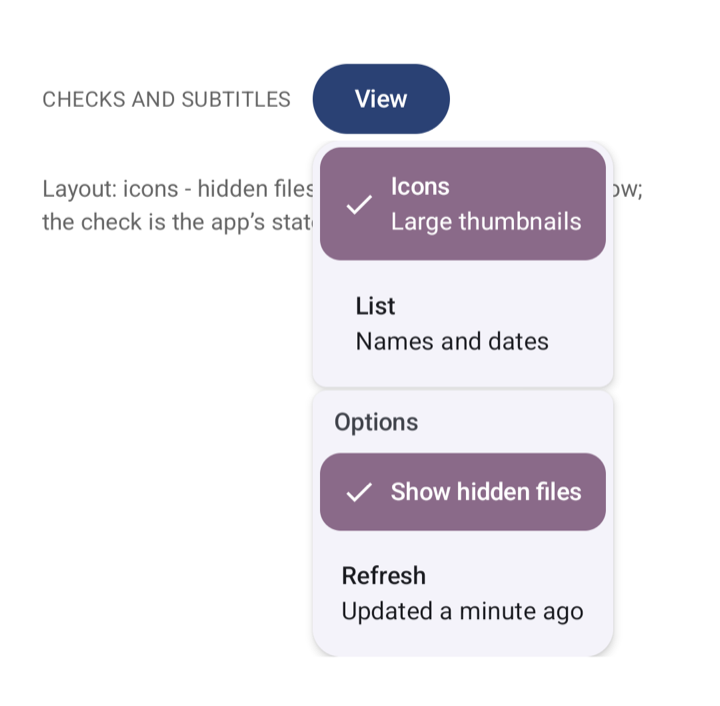
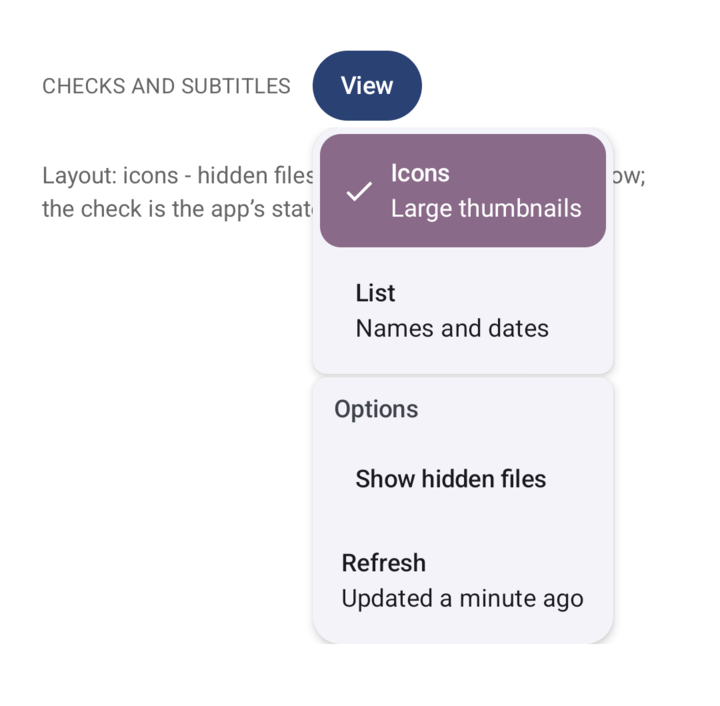
fix(menu): re-measure the trigger against E1's size ladder
The Menu trigger is the shared `NitroUiM3Button`, so E1's Expressive pass moved
its box on Android and the numbers recorded with G7a/E2 stopped describing the
control. Measured on the merged tree (API 35 at 420 dpi, `Menu.harness.tsx` with
a poisoned size cache): a `filled`/`tonal`/`outlined`/`elevated` `Variant` is
76.57 x 48.00 dp where it measured 92.57, `small` is 58.67 x 48.00, `large` is
88.76 x 56.00, and `text` stays 68.95 x 48.00 because that rung's padding was
already Material's.

The declared fallback moves with it: 118 x 52 was no longer even the right order
of guess for a 76.57 dp trigger, so it takes Button's own medium width, 75.1, and
keeps the 52 height so it never equals a measured box. Mirrored into
`DECLARED_FALLBACKS`, the generated shared table and the harness's copy, and
`menu-android.png` retaken at 720 px against the narrower trigger.

ContextMenu and Picker are unaffected: only the Menu trigger composes
`NitroUiM3Button`, and the iOS trigger is SwiftUI's own `.buttonStyle`, which E1
never reached.

diff --git a/android/src/main/java/com/margelo/nitro/nitroui/HybridNitroUiMenu.kt b/android/src/main/java/com/margelo/nitro/nitroui/HybridNitroUiMenu.kt
@@ -615,16 +615,20 @@ class HybridNitroUiMenu(
      * The size to lay a Menu out with before anything has been measured, in dp.
      *
      * One pair for the component, which is all the engine can hold, and the trigger
-     * is a Button's box - so the same shape of guess applies: this is a medium
-     * filled trigger with a five-letter title. `docs/components/menu.md` has the
-     * measured table.
+     * is [NitroUiM3Button]'s box - so the guess is Button's own, and this is literally
+     * it: the width [HybridNitroUiButton] declares for a medium button with a
+     * six-letter title. E1's size ladder is why it moved: that ladder cut 16 dp off a
+     * medium trigger, so a measured `filled` `Variant` is 76.57 dp wide here where it
+     * measured 92.57 before, and the old 118 was no longer even the right order of
+     * guess. `docs/components/menu.md` has the measured table.
      *
-     * Deliberately *not* the fixture's measured size: a fallback that equals the
-     * answer makes a failed correction invisible (AGENTS.md, quality bar). The
-     * harness's sizing test measures a `Short` trigger and asserts the box is not
-     * these numbers as well as that it is the measured ones.
+     * The height stays 52 rather than taking Button's 48, and that gap is the point:
+     * a fallback that equals a measured answer makes a failed correction invisible
+     * (AGENTS.md, quality bar), and every box this control measures is 48 or 56 tall.
+     * `Menu.harness.tsx`'s sizing test poisons all seven configurations and asserts
+     * each box is neither the planted size nor these numbers.
      */
-    private const val FALLBACK_WIDTH_DP = 118.0
+    private const val FALLBACK_WIDTH_DP = 75.1
     private const val FALLBACK_HEIGHT_DP = 52.0
 
     private val fallbackDeclared = AtomicBoolean(false)

diff --git a/example/__tests__/Conformance.harness.tsx b/example/__tests__/Conformance.harness.tsx
@@ -144,7 +144,7 @@ const SHARED = {
     },
     "NitroUiMenu": {
       "android": {
-        "width": 118,
+        "width": 75.1,
         "height": 52
       },
       "ios": {
@@ -1495,7 +1495,7 @@ const MENU_GROUP: MenuGroup = {
  *
  * Deliberately long and deliberately not the fixture's `accessibilityLabel`: the fallback
  * rule's `boxRule: 'none'` branch goes red if a content-sized control measures *exactly* its
- * declared number, and Menu declares a Button-sized 74×38 pt / 118×52 dp, so a two-syllable
+ * declared number, and Menu declares a Button-sized 74×38 pt / 75.1×52 dp, so a two-syllable
  * title would be a coin flip on whether that guard had anything to say. A distinct label is
  * for the same reason one way and one name in two places is how round 1's Picker stutter got
  * missed.

diff --git a/example/__tests__/Menu.harness.tsx b/example/__tests__/Menu.harness.tsx
@@ -565,7 +565,7 @@ function poisonConfigurations(
 const DECLARED_FALLBACK =
   Platform.OS === 'ios'
     ? { width: 74, height: 38 }
-    : { width: 118, height: 52 };
+    : { width: 75.1, height: 52 };
 
 // MARK: - Menu content fixtures
 

diff --git a/docs/components/menu.md b/docs/components/menu.md
@@ -214,21 +214,33 @@ for the sizes. iPhone 17 / iOS 27 in pt, an API 35 emulator at 420 dpi in dp:
 
 | Configuration |           iOS |     Android |
 | ------------- | --------------- | --------------- |
-| `filled`      | 77.33 × 34.33 | 92.57 × 48.00 |
-| `tonal`       | 77.33 × 34.33 | 92.57 × 48.00 |
-| `outlined`    | 77.33 × 34.33 | 92.57 × 48.00 |
-| `elevated`    | 77.33 × 34.33 | 92.57 × 48.00 |
+| `filled`      | 77.33 × 34.33 | 76.57 × 48.00 |
+| `tonal`       | 77.33 × 34.33 | 76.57 × 48.00 |
+| `outlined`    | 77.33 × 34.33 | 76.57 × 48.00 |
+| `elevated`    | 77.33 × 34.33 | 76.57 × 48.00 |
 | `text`        | 53.33 × 20.33 | 68.95 × 48.00 |
-| `small`       | 58.00 × 28.00 | 57.90 × 48.00 |
-| `large`       | 82.00 × 50.33 | 108.57 × 50.29 |
+| `small`       | 58.00 × 28.00 | 58.67 × 48.00 |
+| `large`       | 82.00 × 50.33 | 88.76 × 56.00 |
 
 The heights are Button's three heights — iOS 28.0 / 34.3 / 50.3 and Android 48.0 / 48.0 /
-50.3 (`docs/components/button.md`) — which is the claim being checked: the trigger is
+56.0 (`docs/components/button.md`) — which is the claim being checked: the trigger is
 Button's label with Button's chrome, and the widths differ only because these fixtures
 carry other titles. Android's `text` is narrower than the other four because Material's
 text button carries less horizontal padding, which is what Button does there too. On iOS
 the four boxed variants collapse to one pair because SwiftUI's `.bordered` and
 `.borderedProminent` give the same box; `text` is `.borderless`, so it is a text box.
+
+Only the Android column moved since this table was first taken, and it moved with
+`docs/components/button.md`: the trigger *is* the shared `NitroUiM3Button`, so E1's size
+ladder — Material's own `contentPaddingFor`/`textStyleFor`/`shapesFor` per rung instead
+of hand-rolled padding — took 16 dp off the four boxed variants (92.57 → 76.57), took
+19.8 off `large` and gave it the M token's 56 dp instead of 50.29, and left `text` at
+68.95 because that rung's padding was already Material's. `small` gained 0.77
+(57.90 → 58.67) from the XS rung's label style. The iOS column was not re-measured and
+does not need it: the only iOS file that pass touched is
+`ios/components/Button/HybridNitroUiButton.swift`, and this trigger is E2's own SwiftUI,
+which applies `.buttonStyle(.bordered)`/`.borderedProminent`/`.borderless` directly and
+never reaches that file.
 
 Getting those numbers needed one fix: `.menuStyle(.button)` makes the label a button but
 leaves that button's *style* the automatic one, and the trigger measured 53.33 × 20.33 —
@@ -238,7 +250,7 @@ the title's text box — for every variant. iOS now applies the same per-variant
 **The fallback.** One pair per component, Button-sized and deliberately not any fixture's
 measured size, because a fallback equal to the answer hides a correction that never
 arrived (`docs/tasks/X4-conformance.md`): `74 × 38` pt
-(`ios/components/Menu/HybridNitroUiMenu.swift`) and `118 × 52` dp
+(`ios/components/Menu/HybridNitroUiMenu.swift`) and `75.1 × 52` dp
 (`android/src/main/java/com/margelo/nitro/nitroui/HybridNitroUiMenu.kt`). Each sizing row
 above is poisoned first, so the test asserts the box is neither the planted size nor this
 pair.
